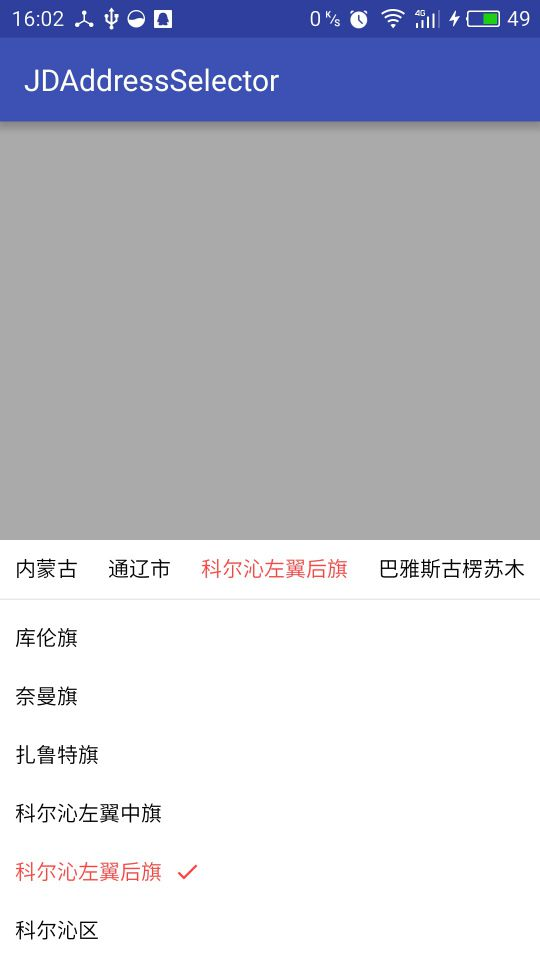
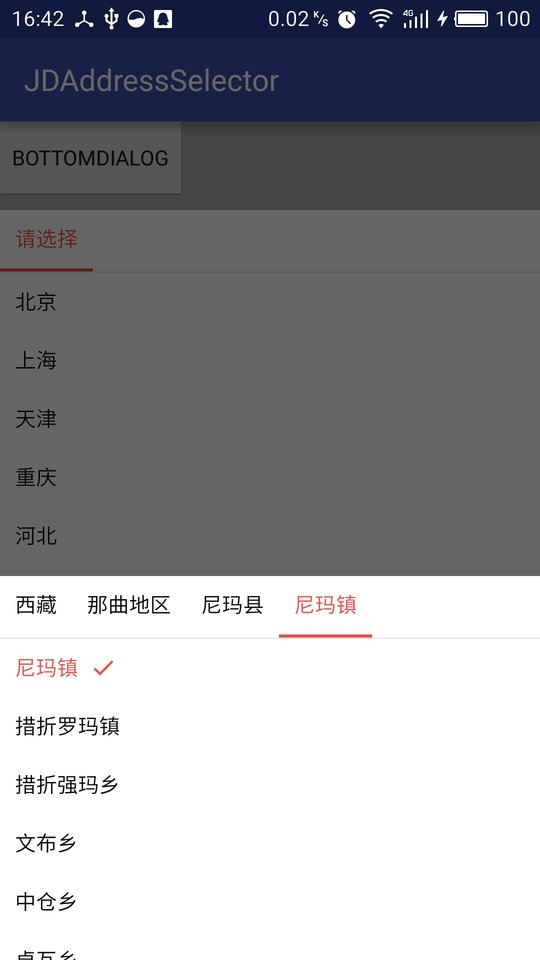
更新到1.1.1

diff --git a/README.md b/README.md
@@ -1,4 +1,4 @@
-## JDAddressSelector
+# JDAddressSelector
 
 一个 Android 版京东手机客户端（当前版本V5.0.1 build 28529）风格的级联地址选择器。
 
@@ -19,10 +19,12 @@
 
     dependencies {
         ...
-        compile 'com.github.chihane:JDAddressSelector:1.1.0'
+        compile 'com.github.chihane:JDAddressSelector:1.1.1'
     }
     
-### 使用方法
+## 使用方法
+
+### 使用原始视图
 
     AddressSelector selector = new AddressSelector(context);
     selector.setOnAddressSelectedListener(new AddressSelector.OnAddressSelectedListener() {
@@ -37,7 +39,17 @@
     // new AlertDialog.Builder(context).setView(view).show()
     // ...
     
-### 关于我
+### BottomDialog
+
+    BottomDialog.show(context, new AddressSelector.OnAddressSelectedListener() {
+                @Override
+                public void onAddressSelected(Province province, City city, County county, Street street) {
+                    
+                }
+            });
+    BottomDialog.hideIfShown();
+    
+## 关于我
 
 **Chihane Habana**
 
@@ -45,6 +57,6 @@
 - <chihane@yeah.net>
 - <http://weibo.com/chihaneh>
 
-### 许可证
+## 许可证
 
 [MIT License](http://chihane.in/license)
